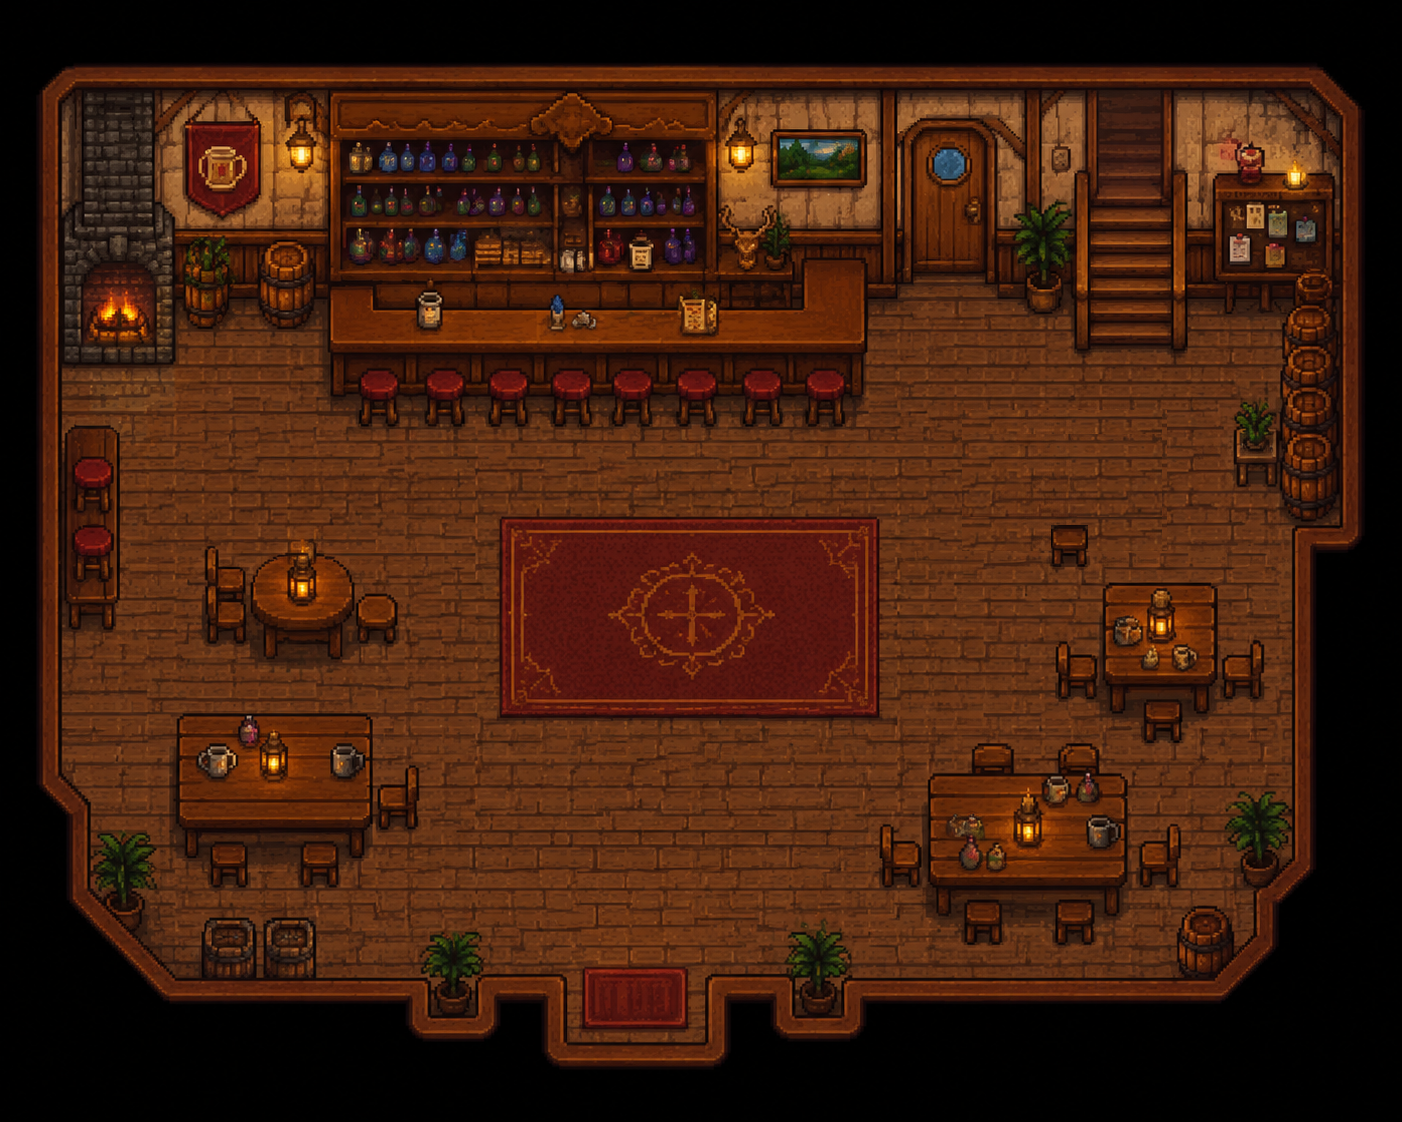
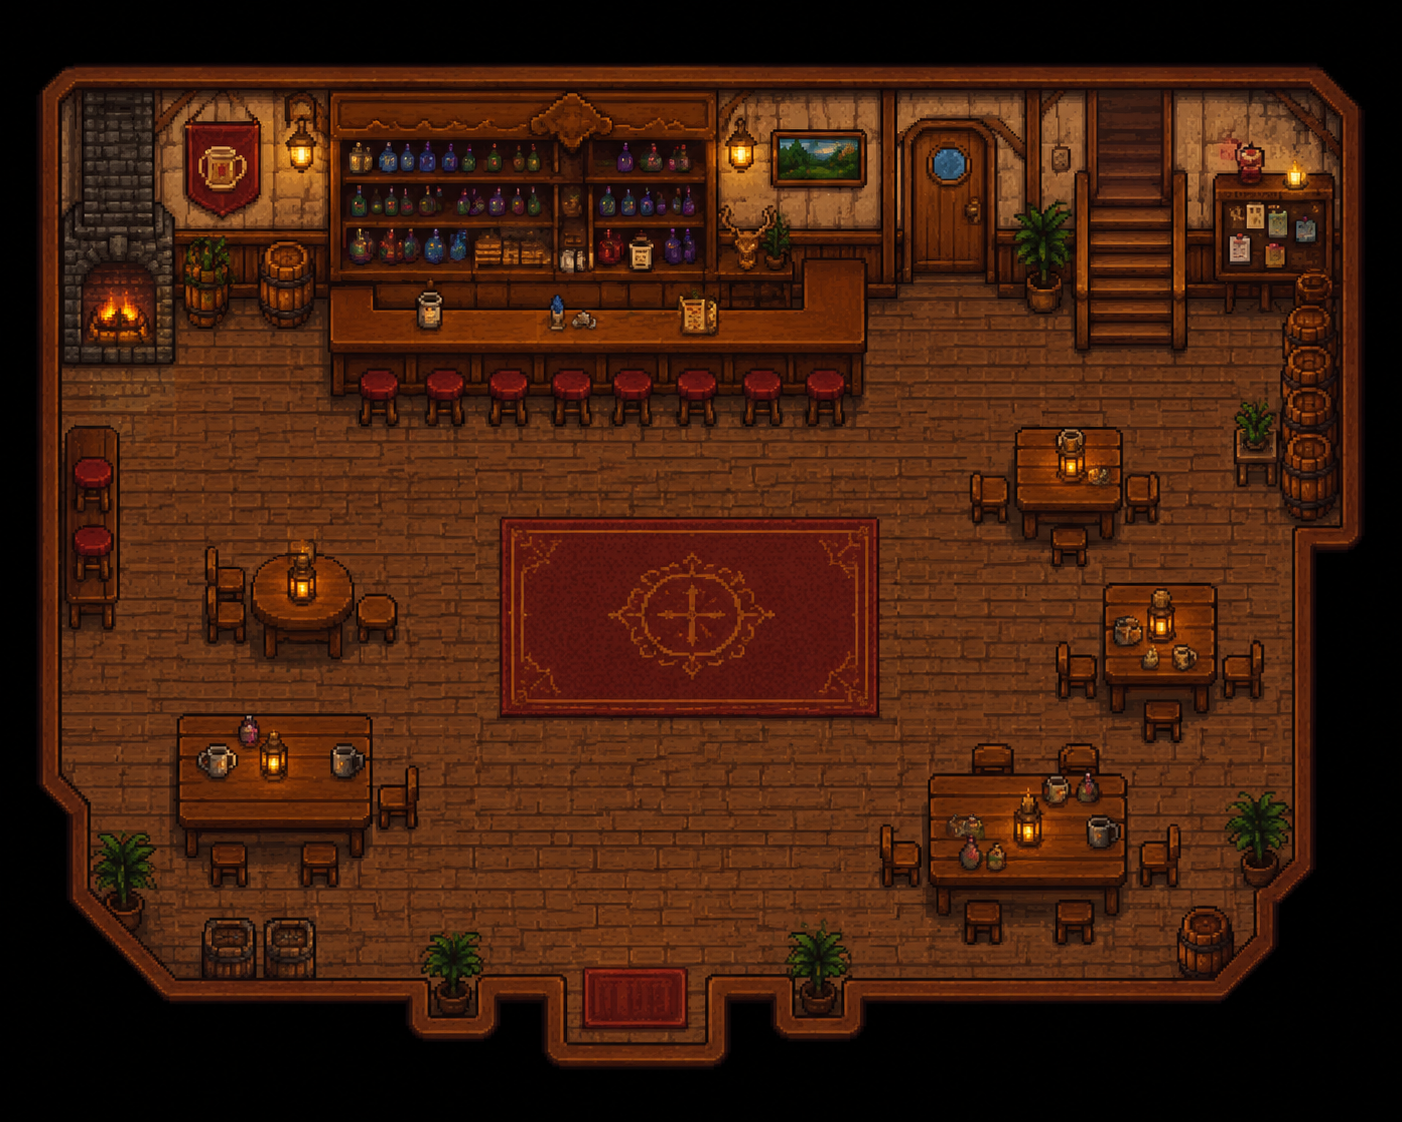
fix npc's

Changed region(s): [[0.6748, 0.3431, 0.8281, 0.4991]]

diff --git a/lib/game/tavern_npc.dart b/lib/game/tavern_npc.dart
@@ -4,8 +4,8 @@ import 'package:flutter/material.dart';
 
 import '../theme/app_theme.dart';
 
-/// A townsfolk NPC who just idles in place (the bard by the door, the
-/// couple having a drink at a table): one strip of equal frames, played on
+/// A townsfolk NPC who just idles in place (the bard by the door, two
+/// friends having a drink at a table): one strip of equal frames, played on
 /// a loop, layered by its bottom edge like everyone else.
 class TavernNpc extends SpriteAnimationComponent with HasGameReference {
   TavernNpc({
@@ -24,22 +24,26 @@ class TavernNpc extends SpriteAnimationComponent with HasGameReference {
     frames: 8,
     cell: Vector2(270, 300),
     baseline: 290,
-    scaleBy: 0.31,
+    scaleBy: 0.37,
     stepTime: 0.2,
     feet: feet,
   );
 
-  /// Two adventurers at their table, chatting and clinking mugs. Their table
-  /// replaces the one painted there (removed from the map picture).
-  factory TavernNpc.couple(Vector2 bottom) => TavernNpc(
-    asset: 'assets/images/npc_couple.png',
-    frames: 8,
-    cell: Vector2(230, 230),
-    baseline: 224,
-    scaleBy: 0.85,
-    stepTime: 0.28,
-    feet: bottom,
-  );
+  /// The two adventurers drinking at the table by the stairs, seated on
+  /// its painted chairs facing each other (cut from one picture, so they
+  /// move in step: 7 frames, anchored at the hips).
+  factory TavernNpc.drinker({required bool girl, required Vector2 hips}) =>
+      TavernNpc(
+        asset: girl
+            ? 'assets/images/npc_girl.png'
+            : 'assets/images/npc_boy.png',
+        frames: 7,
+        cell: Vector2(140, 200),
+        baseline: 170,
+        scaleBy: 0.6,
+        stepTime: 0.3,
+        feet: hips,
+      );
 
   final String asset;
   final int frames;

diff --git a/lib/game/tavern_map.dart b/lib/game/tavern_map.dart
@@ -25,10 +25,11 @@ class TavernMap {
   static const double noticeBoardReach = 95;
 
   /// Where the townsfolk NPCs idle: the bard's feet (below the door), and
-  /// the bottom-centre of the couple's table (their own; the painted table that
-  /// stood there was removed from the map picture).
+  /// the hips of the two drinkers on the side chairs of the table by the
+  /// stairs.
   static const Offset bardSpot = Offset(966, 338);
-  static const Offset coupleSpot = Offset(1067, 548);
+  static const Offset boySpot = Offset(985, 508);
+  static const Offset girlSpot = Offset(1146, 508);
 
   /// The inside of the fireplace, where the burning fire is drawn.
   static const Rect fireplaceFire = Rect.fromLTWH(82, 268, 72, 64);
@@ -121,7 +122,7 @@ class TavernMap {
     Rect.fromLTRB(422, 928, 492, 1030), // plant left of the door
     Rect.fromLTRB(785, 928, 858, 1030), // plant right of the door
     // --- Right side ----------------------------------------------------------
-    Rect.fromLTRB(990, 465, 1144, 568), // the couple's table (NPCs) + stool
+    Rect.fromLTRB(968, 425, 1162, 568), // table (top-right) + chairs
     Rect.fromLTRB(1052, 582, 1268, 742), // table (middle-right) + chairs
     Rect.fromLTRB(878, 740, 1185, 948), // big table (bottom-right) + chairs
     Rect.fromLTRB(1222, 788, 1297, 888), // plant (bottom-right)

diff --git a/lib/game/tavern_game.dart b/lib/game/tavern_game.dart
@@ -47,7 +47,8 @@ class TavernGame extends FlameGame with HasKeyboardHandlerComponents {
     AppImages.joystickBase,
     AppImages.joystickKnob,
     'assets/images/npc_bard.png',
-    'assets/images/npc_couple.png',
+    'assets/images/npc_boy.png',
+    'assets/images/npc_girl.png',
     for (final c in gameCharacters) ...[
       c.sheet,
       ?c.idleSheet,
@@ -554,8 +555,13 @@ class TavernGame extends FlameGame with HasKeyboardHandlerComponents {
       map,
       fire,
       TavernNpc.bard(Vector2(TavernMap.bardSpot.dx, TavernMap.bardSpot.dy)),
-      TavernNpc.couple(
-        Vector2(TavernMap.coupleSpot.dx, TavernMap.coupleSpot.dy),
+      TavernNpc.drinker(
+        girl: false,
+        hips: Vector2(TavernMap.boySpot.dx, TavernMap.boySpot.dy),
+      ),
+      TavernNpc.drinker(
+        girl: true,
+        hips: Vector2(TavernMap.girlSpot.dx, TavernMap.girlSpot.dy),
       ),
       _noticeBoard,
       bernie,
